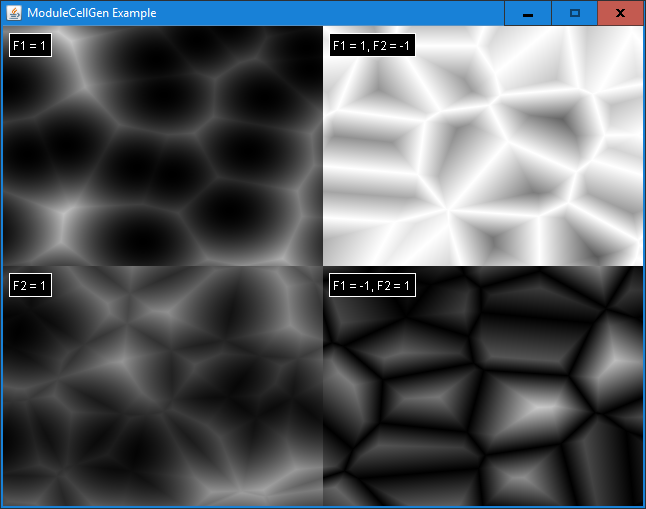
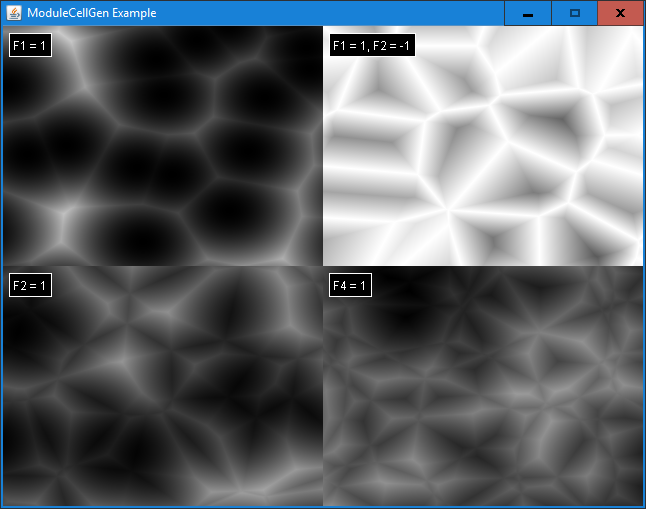
update

Changed region(s): [[0.4954, 0.501, 1.0, 1.0], [0.5573, 0.5305, 0.6502, 0.5894]]

diff --git a/modules.md b/modules.md
@@ -68,11 +68,21 @@ This module is derived from <a href="http://accidentalnoise.sourceforge.net/impl
 
 ModuleCellular is used in conjunction with the ModuleCellGen to provide values based on [Worley noise](https://en.wikipedia.org/wiki/Worley_noise).
 
-This module is derived from <a href="http://accidentalnoise.sourceforge.net/implicit.html#Cellular" target="_blank">CImplicitCellular</a>.
+The parameters `F1`, `F2`, `F3`, and `F4` are coefficients multiplied by the distances to the first, second, third, and fourth closest feature points, respectively. By default, the value for each of these coefficients is zero.
+
+Here is an excerpt from <a href="http://www.rhythmiccanvas.com/research/papers/worley.pdf" target="_blank">Worley's original paper</a>: 
+
+> We can define a new basis function based on the idea of random feature points. Imagine points randomly distributed through all of R3. For any location x, there is some feature point which lies closer to x than any other feature point. Define F1(x) as the distance from x to that closest feature point. As x is varied, F1 varies smoothly since the distance between the sample location and the fixed feature point varies smoothly. However, at certain cusp locations, the point x will be equidistant between two feature points. Here, the value of F1(x) is still well defined, since the value is the same no matter which feature point is chosen to calculate the distance. Varying the position of x will return values of F1 that are still continuous, though the derivative of F1 will change discontinuously as the distance calculation “switches” from one feature point to its neighbor.
+
+> It can be seen that the locations where the function F1 “switches” from one feature point to the next (where its derivative is discontinuous) are along the equidistance planes that separate two points in R3. These planes are exactly the planes that are computed by a Voronoi diagram, which by definition partitions space into cellular regions where all the points within each region are closer to its defining point than any other point.
+
+> The function F2(x) can be defined as the distance between the location x and the feature point which is the second closest to the x. With similar arguments as before, F2 is continuous everywhere, but its derivative is not at those locations where the second-closest point swaps with either the first-closest or third-closest. Similarly, we can define Fn(x) as the distance between x and the nth closest feature point.
 
 <img src="/assets/examples/module/cellGen.png" class="img-responsive">
 
 ## ModuleFractal
+
+The fractal module combines up to ten sources, either the default sources or custom sources set by calling the `ModuleFractal#overrideSource(int, Module)` method. The basis type and interpolation type can be set for all or individual default sources by calling the appropriate methods.
 
 ### Billow
 
@@ -191,6 +201,8 @@ This module is derived from <a href="http://accidentalnoise.sourceforge.net/impl
 
 ### BasisType.WHITE
 
+The white noise basis types for `ModuleFractal` have been grouped below for visual comparison.
+
 #### FractalType.BILLOW
 
 <img src="/assets/examples/module/fractal/white/billow.png" class="img-responsive">
@@ -217,6 +229,8 @@ This module is derived from <a href="http://accidentalnoise.sourceforge.net/impl
 
 
 ## ModuleGradient
+
+The `ModuleGradient` generates a linear gradient with output values ranging from 0 to 1.
 
 <img src="/assets/examples/module/gradient.png" class="img-responsive">
 
